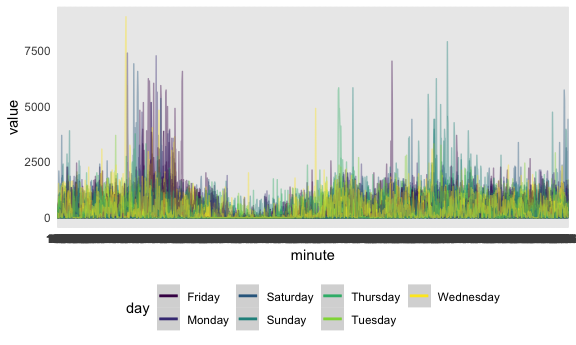
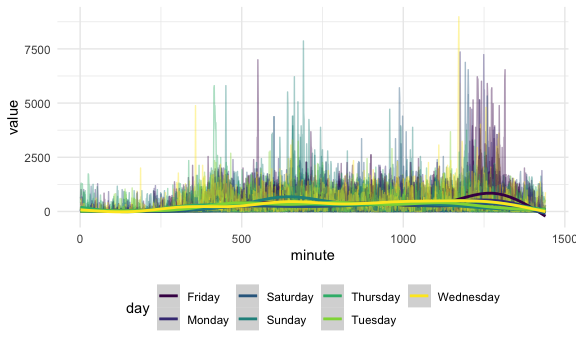
started to change variable class for noaa, also separated the date into 3

diff --git a/p8105_HW3_rkm2147.md b/p8105_HW3_rkm2147.md
@@ -164,7 +164,7 @@ accel_df = read_csv("./accel_data.csv") %>%
       values_to = "value"
   ) %>% 
   mutate(
-    minute = as.factor(minute)
+    minute = as.numeric(minute)
   ) %>% mutate(
   weekday = if_else(day %in% c("Saturday", "Sunday"), "FALSE", "TRUE")) %>% 
   mutate(weekday = as.factor(weekday)
@@ -183,14 +183,14 @@ accel_df = read_csv("./accel_data.csv") %>%
 summary(accel_df)
 ```
 
-    ##       week       day_id          day           minute          value     
-    ##  Min.   :1   Min.   : 1   Friday   :7200   1      :   35   Min.   :   1  
-    ##  1st Qu.:2   1st Qu.: 9   Monday   :7200   10     :   35   1st Qu.:   1  
-    ##  Median :3   Median :18   Saturday :7200   100    :   35   Median :  74  
-    ##  Mean   :3   Mean   :18   Sunday   :7200   1000   :   35   Mean   : 267  
-    ##  3rd Qu.:4   3rd Qu.:27   Thursday :7200   1001   :   35   3rd Qu.: 364  
-    ##  Max.   :5   Max.   :35   Tuesday  :7200   1002   :   35   Max.   :8982  
-    ##                           Wednesday:7200   (Other):50190                 
+    ##       week       day_id          day           minute           value     
+    ##  Min.   :1   Min.   : 1   Friday   :7200   Min.   :   1.0   Min.   :   1  
+    ##  1st Qu.:2   1st Qu.: 9   Monday   :7200   1st Qu.: 360.8   1st Qu.:   1  
+    ##  Median :3   Median :18   Saturday :7200   Median : 720.5   Median :  74  
+    ##  Mean   :3   Mean   :18   Sunday   :7200   Mean   : 720.5   Mean   : 267  
+    ##  3rd Qu.:4   3rd Qu.:27   Thursday :7200   3rd Qu.:1080.2   3rd Qu.: 364  
+    ##  Max.   :5   Max.   :35   Tuesday  :7200   Max.   :1440.0   Max.   :8982  
+    ##                           Wednesday:7200                                  
     ##   weekday     
     ##  FALSE:14400  
     ##  TRUE :36000  
@@ -230,12 +230,46 @@ the lowest on saturdays, notably during the fourth and fifth week**
 
 ``` r
 accel_df %>% 
-ggplot(aes(x = minute, y = value, color = day, group = day_id)) + geom_line(alpha = .4) + geom_smooth()
+ggplot(aes(x = minute, y = value, color = day, group = day_id)) + geom_line(alpha = .4) + geom_smooth(aes(group = day))
 ```
 
     ## `geom_smooth()` using method = 'gam' and formula 'y ~ s(x, bs = "cs")'
 
-    ## Warning: Computation failed in `stat_smooth()`:
-    ## NA/NaN/Inf in foreign function call (arg 3)
-
 <img src="p8105_HW3_rkm2147_files/figure-gfm/unnamed-chunk-10-1.png" width="90%" />
+
+tmax tmin should be numeric
+
+# Problem 3
+
+separate(date, into = c(“year”,“month”,“day”, convert = TRUE))
+
+Load data, this has over 2 million observations. Contains lots of
+information\!
+
+``` r
+library(p8105.datasets)
+data("ny_noaa") 
+```
+
+``` r
+ny_noaa %>% 
+  separate(date, into = c("year","month","day", convert = TRUE))
+```
+
+    ## Warning: Expected 4 pieces. Missing pieces filled with `NA` in 2595176 rows [1,
+    ## 2, 3, 4, 5, 6, 7, 8, 9, 10, 11, 12, 13, 14, 15, 16, 17, 18, 19, 20, ...].
+
+    ## # A tibble: 2,595,176 x 10
+    ##    id          year  month day   `TRUE`  prcp  snow  snwd tmax  tmin 
+    ##    <chr>       <chr> <chr> <chr> <chr>  <int> <int> <int> <chr> <chr>
+    ##  1 US1NYAB0001 2007  11    01    <NA>      NA    NA    NA <NA>  <NA> 
+    ##  2 US1NYAB0001 2007  11    02    <NA>      NA    NA    NA <NA>  <NA> 
+    ##  3 US1NYAB0001 2007  11    03    <NA>      NA    NA    NA <NA>  <NA> 
+    ##  4 US1NYAB0001 2007  11    04    <NA>      NA    NA    NA <NA>  <NA> 
+    ##  5 US1NYAB0001 2007  11    05    <NA>      NA    NA    NA <NA>  <NA> 
+    ##  6 US1NYAB0001 2007  11    06    <NA>      NA    NA    NA <NA>  <NA> 
+    ##  7 US1NYAB0001 2007  11    07    <NA>      NA    NA    NA <NA>  <NA> 
+    ##  8 US1NYAB0001 2007  11    08    <NA>      NA    NA    NA <NA>  <NA> 
+    ##  9 US1NYAB0001 2007  11    09    <NA>      NA    NA    NA <NA>  <NA> 
+    ## 10 US1NYAB0001 2007  11    10    <NA>      NA    NA    NA <NA>  <NA> 
+    ## # … with 2,595,166 more rows
